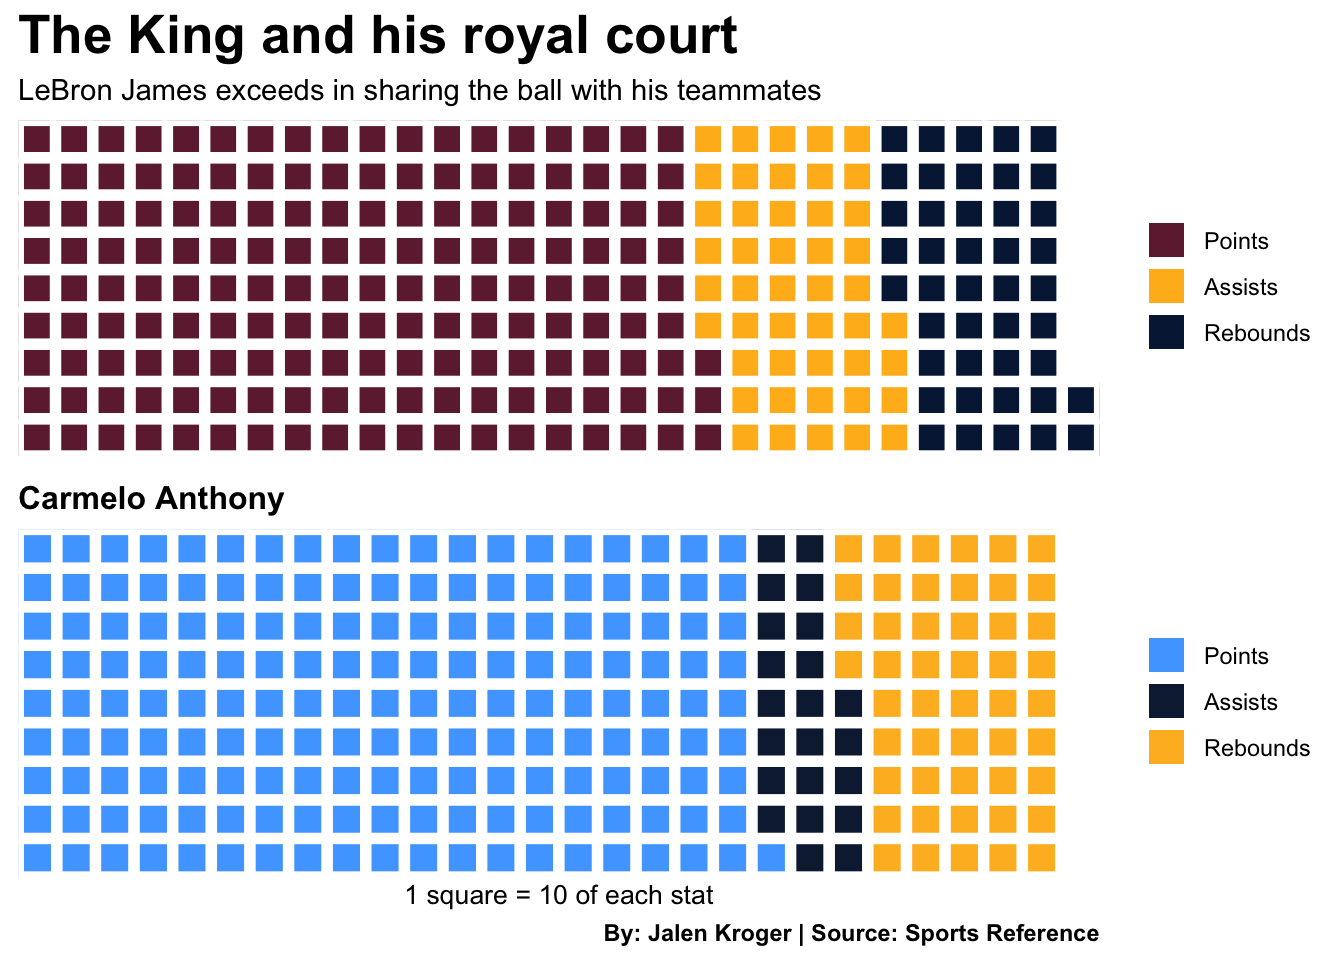
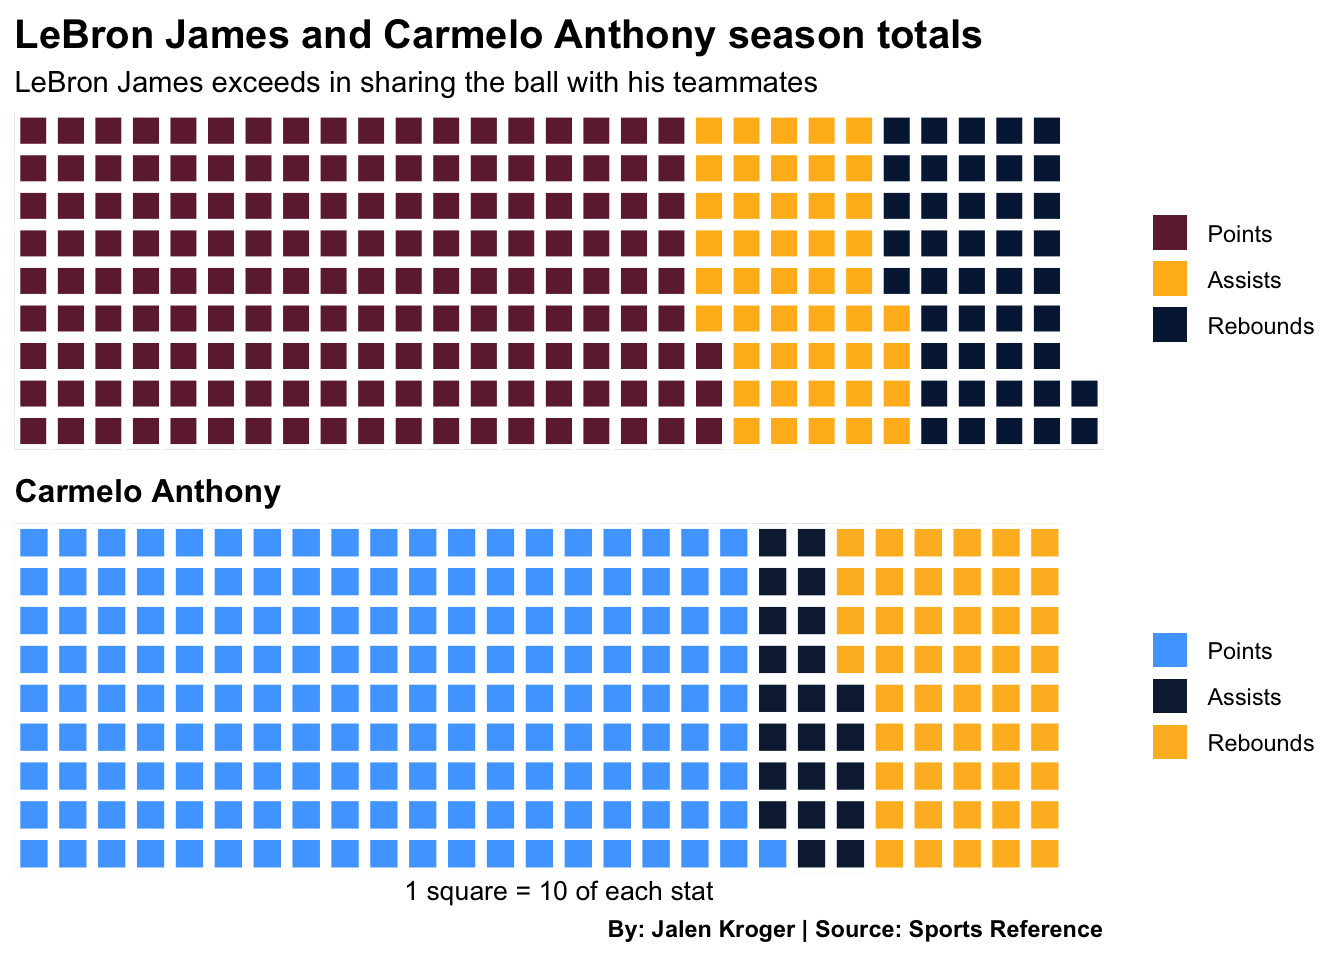
lebron vs melo 2

diff --git a/posts/carmelo-vs-lebron-roty/index.html b/posts/carmelo-vs-lebron-roty/index.html
@@ -9,7 +9,7 @@
 <meta name="author" content="Jalen-Thomas Kroger">
 <meta name="dcterms.date" content="2025-05-04">
 
-<title>LeBron vs Carmelo – Jalen Kroger Blog</title>
+<title>Should Carmelo Anthony have won the 2003 ROTY? – Jalen Kroger Blog</title>
 <style>
 code{white-space: pre-wrap;}
 span.smallcaps{font-variant: small-caps;}
@@ -152,7 +152,7 @@ pre > code.sourceCode > span > a:first-child::before { text-decoration: underlin
 <header id="title-block-header" class="quarto-title-block default page-columns page-full">
   <div class="quarto-title-banner page-columns page-full">
     <div class="quarto-title column-body">
-      <h1 class="title">LeBron vs Carmelo</h1>
+      <h1 class="title">Should Carmelo Anthony have won the 2003 ROTY?</h1>
                                 <div class="quarto-categories">
                 <div class="quarto-category">nba</div>
                 <div class="quarto-category">melo</div>
@@ -213,11 +213,11 @@ pre > code.sourceCode > span > a:first-child::before { text-decoration: underlin
 <span id="cb1-13"><a href="#cb1-13" aria-hidden="true" tabindex="-1"></a>    <span class="at">colors =</span> <span class="fu">c</span>(<span class="st">"#6F263D"</span>, <span class="st">"#FFB81C"</span>, <span class="st">"#041E42"</span>)</span>
 <span id="cb1-14"><a href="#cb1-14" aria-hidden="true" tabindex="-1"></a>  ) <span class="sc">+</span></span>
 <span id="cb1-15"><a href="#cb1-15" aria-hidden="true" tabindex="-1"></a>    <span class="fu">labs</span>(</span>
-<span id="cb1-16"><a href="#cb1-16" aria-hidden="true" tabindex="-1"></a>      <span class="at">title =</span> <span class="st">"The King and his royal court"</span>,</span>
+<span id="cb1-16"><a href="#cb1-16" aria-hidden="true" tabindex="-1"></a>      <span class="at">title =</span> <span class="st">"LeBron James and Carmelo Anthony season totals"</span>,</span>
 <span id="cb1-17"><a href="#cb1-17" aria-hidden="true" tabindex="-1"></a>      <span class="at">subtitle =</span> <span class="st">"LeBron James exceeds in sharing the ball with his teammates"</span></span>
 <span id="cb1-18"><a href="#cb1-18" aria-hidden="true" tabindex="-1"></a>    ) <span class="sc">+</span></span>
 <span id="cb1-19"><a href="#cb1-19" aria-hidden="true" tabindex="-1"></a>    <span class="fu">theme</span>(</span>
-<span id="cb1-20"><a href="#cb1-20" aria-hidden="true" tabindex="-1"></a>      <span class="at">plot.title =</span> <span class="fu">element_text</span>(<span class="at">size =</span><span class="dv">20</span>, <span class="at">face =</span> <span class="st">"bold"</span>),</span>
+<span id="cb1-20"><a href="#cb1-20" aria-hidden="true" tabindex="-1"></a>      <span class="at">plot.title =</span> <span class="fu">element_text</span>(<span class="at">size =</span><span class="dv">15</span>, <span class="at">face =</span> <span class="st">"bold"</span>),</span>
 <span id="cb1-21"><a href="#cb1-21" aria-hidden="true" tabindex="-1"></a>      <span class="at">axis.title =</span> <span class="fu">element_text</span>(<span class="at">size =</span> <span class="dv">15</span>),</span>
 <span id="cb1-22"><a href="#cb1-22" aria-hidden="true" tabindex="-1"></a>      <span class="at">plot.caption =</span> <span class="fu">element_text</span>(<span class="at">face =</span> <span class="st">"bold"</span>),</span>
 <span id="cb1-23"><a href="#cb1-23" aria-hidden="true" tabindex="-1"></a>      <span class="at">axis.title.y =</span> <span class="fu">element_blank</span>()</span>
@@ -373,8 +373,8 @@ pre > code.sourceCode > span > a:first-child::before { text-decoration: underlin
 <span id="cb3-33"><a href="#cb3-33" aria-hidden="true" tabindex="-1"></a>          <span class="at">position =</span> <span class="fu">position_dodge</span>(<span class="at">width =</span> <span class="fl">0.9</span>), <span class="at">width =</span> <span class="fl">0.45</span>) <span class="sc">+</span></span>
 <span id="cb3-34"><a href="#cb3-34" aria-hidden="true" tabindex="-1"></a>  <span class="fu">geom_col</span>(<span class="fu">aes</span>(<span class="at">y =</span> team_wins_before, <span class="at">fill =</span> <span class="st">"Wins Before Player Joined"</span>), </span>
 <span id="cb3-35"><a href="#cb3-35" aria-hidden="true" tabindex="-1"></a>           <span class="at">position =</span> <span class="fu">position_dodge</span>(<span class="at">width =</span> <span class="fl">0.9</span>), <span class="at">width =</span> <span class="fl">0.45</span>) <span class="sc">+</span></span>
-<span id="cb3-36"><a href="#cb3-36" aria-hidden="true" tabindex="-1"></a>  <span class="fu">labs</span>(<span class="at">title =</span> <span class="st">"Candidates and their teams"</span>,</span>
-<span id="cb3-37"><a href="#cb3-37" aria-hidden="true" tabindex="-1"></a>       <span class="at">subtitle =</span> <span class="st">"2003 Draft Class ROTY candidates and their impact on team win totals"</span>,</span>
+<span id="cb3-36"><a href="#cb3-36" aria-hidden="true" tabindex="-1"></a>  <span class="fu">labs</span>(<span class="at">title =</span> <span class="st">"How ROTY candidates impacted their team's wins"</span>,</span>
+<span id="cb3-37"><a href="#cb3-37" aria-hidden="true" tabindex="-1"></a>       <span class="at">subtitle =</span> <span class="st">"2003 Draft Class ROTY candidates and their teams' wins before and after they were drafted"</span>,</span>
 <span id="cb3-38"><a href="#cb3-38" aria-hidden="true" tabindex="-1"></a>       <span class="at">x =</span> <span class="st">"Player"</span>,</span>
 <span id="cb3-39"><a href="#cb3-39" aria-hidden="true" tabindex="-1"></a>       <span class="at">y =</span> <span class="st">"Number of Wins"</span>,</span>
 <span id="cb3-40"><a href="#cb3-40" aria-hidden="true" tabindex="-1"></a>       <span class="at">fill =</span> <span class="st">"Season"</span>,</span>

diff --git a/index.html b/index.html
@@ -208,7 +208,7 @@ window.Quarto = {
 
 <div class="quarto-listing quarto-listing-container-default" id="listing-listing">
 <div class="list quarto-listing-default">
-<div class="quarto-post image-right" data-index="0" data-categories="bmJhJTJDbWVsbyUyQ2xlYnJvbg==" data-listing-date-sort="1746334800000" data-listing-file-modified-sort="1746385496106" data-listing-date-modified-sort="NaN" data-listing-reading-time-sort="7" data-listing-word-count-sort="1374">
+<div class="quarto-post image-right" data-index="0" data-categories="bmJhJTJDbWVsbyUyQ2xlYnJvbg==" data-listing-date-sort="1746334800000" data-listing-file-modified-sort="1746395733370" data-listing-date-modified-sort="NaN" data-listing-reading-time-sort="7" data-listing-word-count-sort="1381">
 <div class="thumbnail">
 <p><a href="./posts/carmelo-vs-lebron-roty/index.html" class="no-external"></a></p><a href="./posts/carmelo-vs-lebron-roty/index.html" class="no-external">
 <p><img loading="lazy" src="./posts/carmelo-vs-lebron-roty/image.png" class="thumbnail-image"></p>
